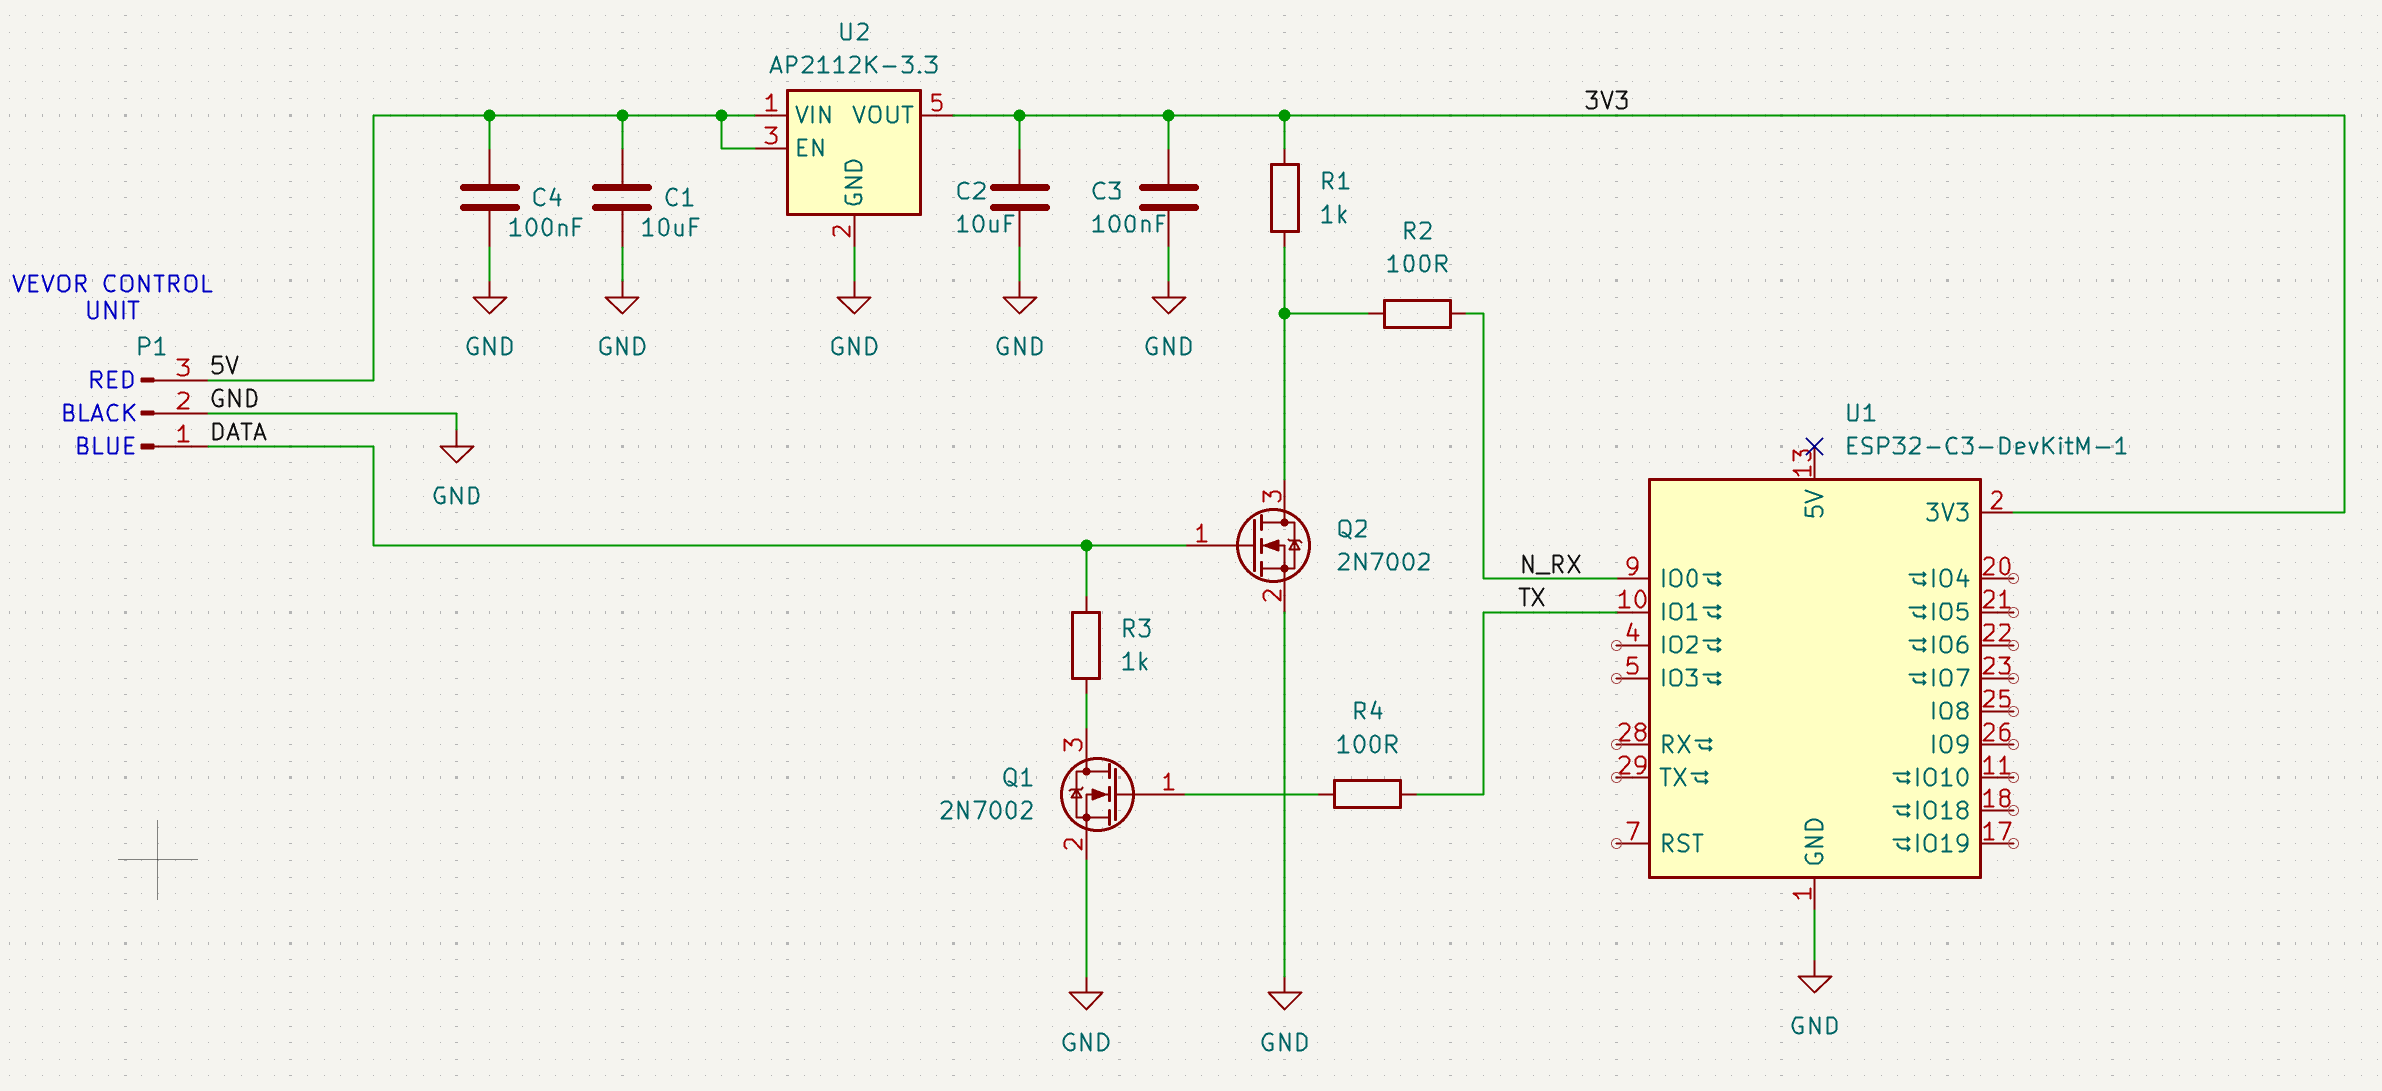
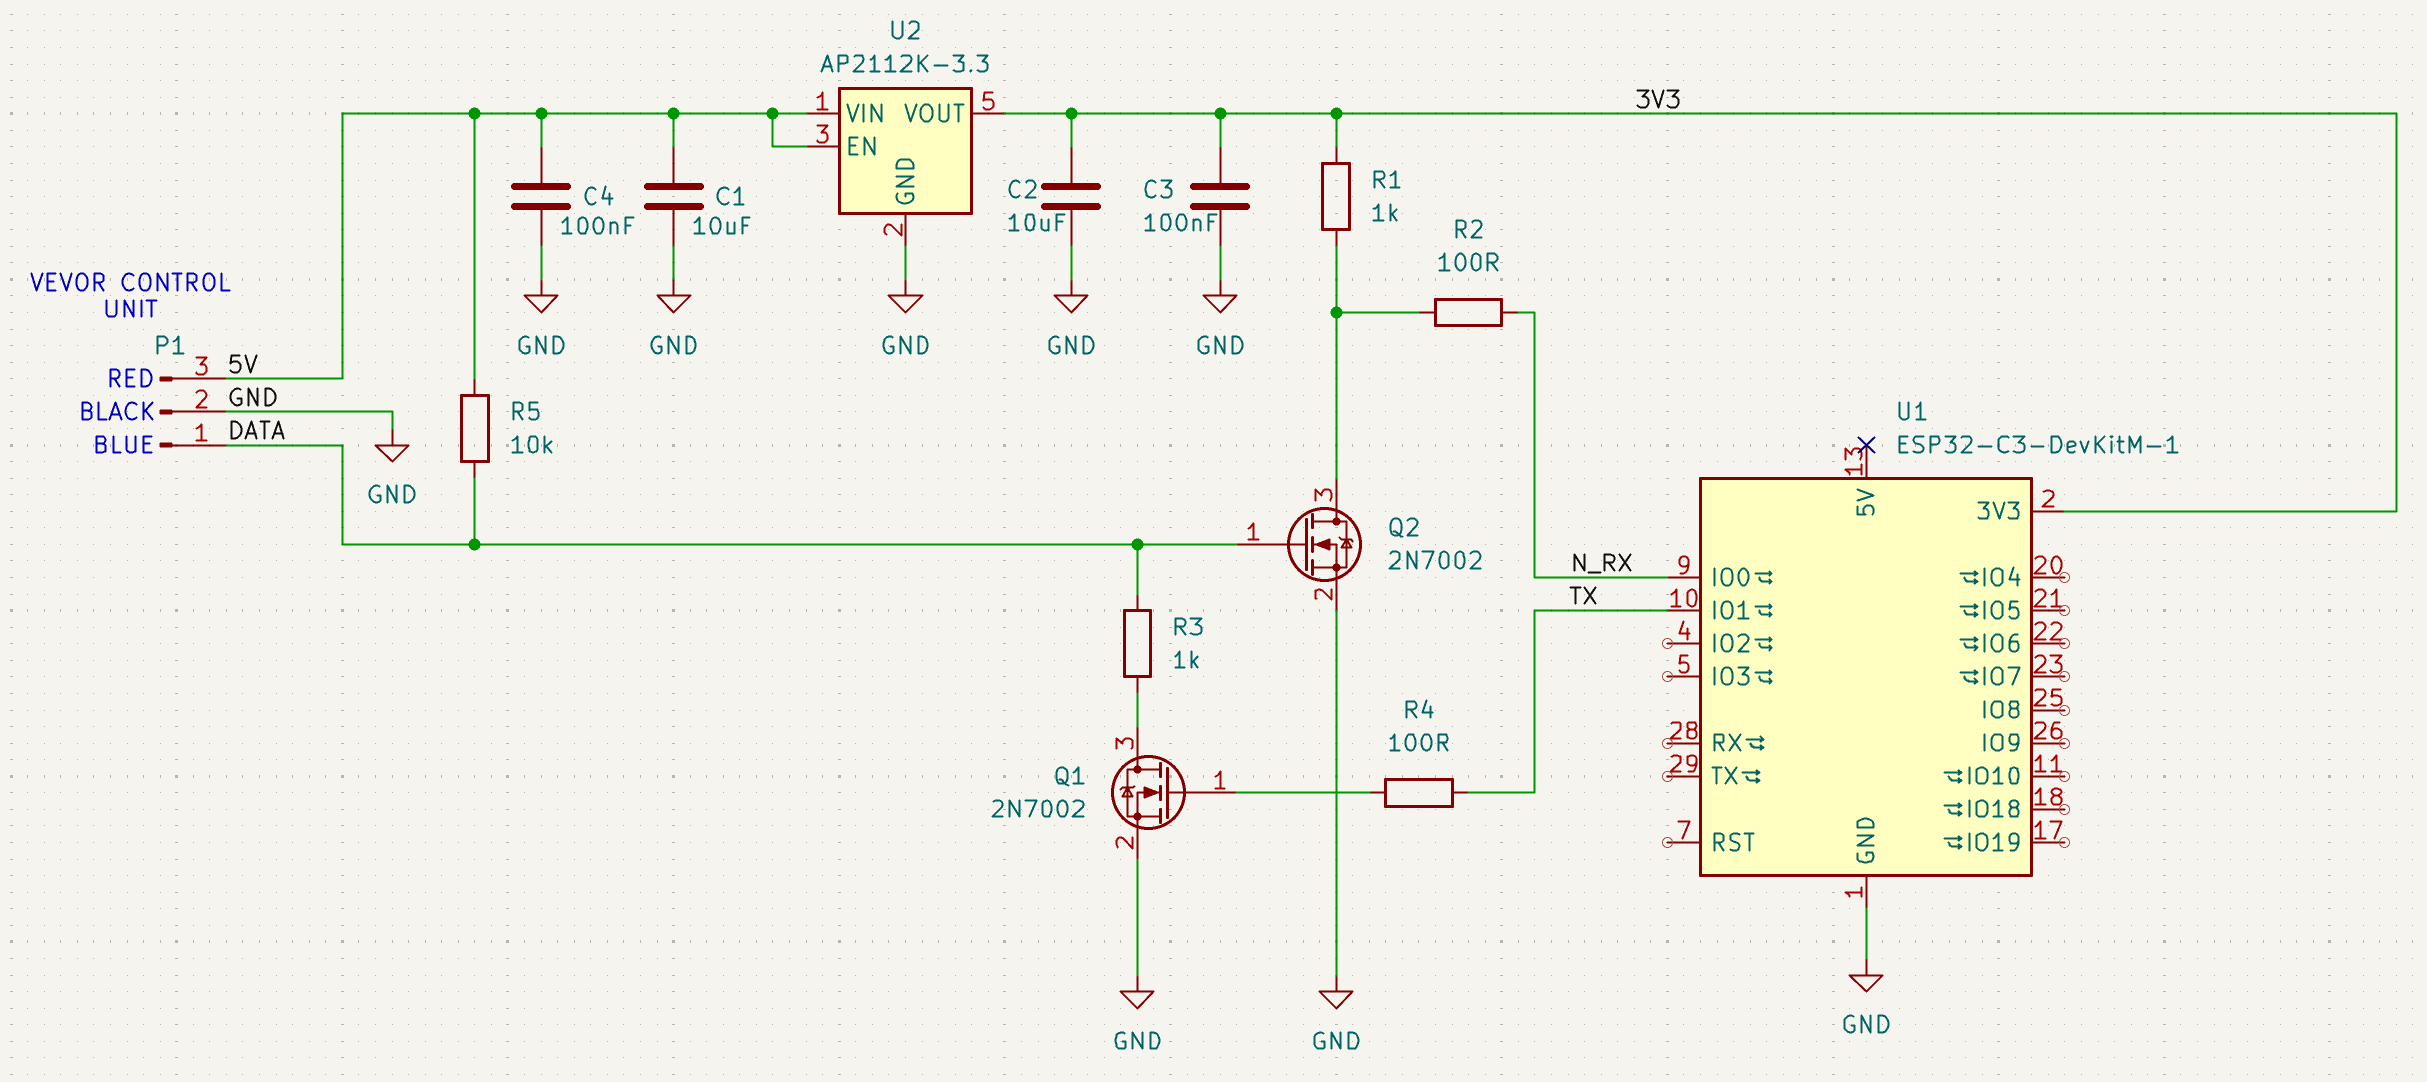
Added missing pull-up in schematics

diff --git a/README.md b/README.md
@@ -10,7 +10,8 @@ The project is now ready to use for all who have some experience with ESPHome.
 This is a simple schematic of how I connected my ESP32 to the bus. \
 Be careful and connect the RX transistor to the 3.3V rail, not 5V. \
 **Double check the transistors'** pinout. \
-Feel free to use any pin for TX and RX.
+Feel free to use any pin for TX and RX. \
+**Put pullup resistor between data line and 5V**
 
 ![Connection ESP32 to Vevor](docs/images/vevor_heater_esp32.PNG)
 
